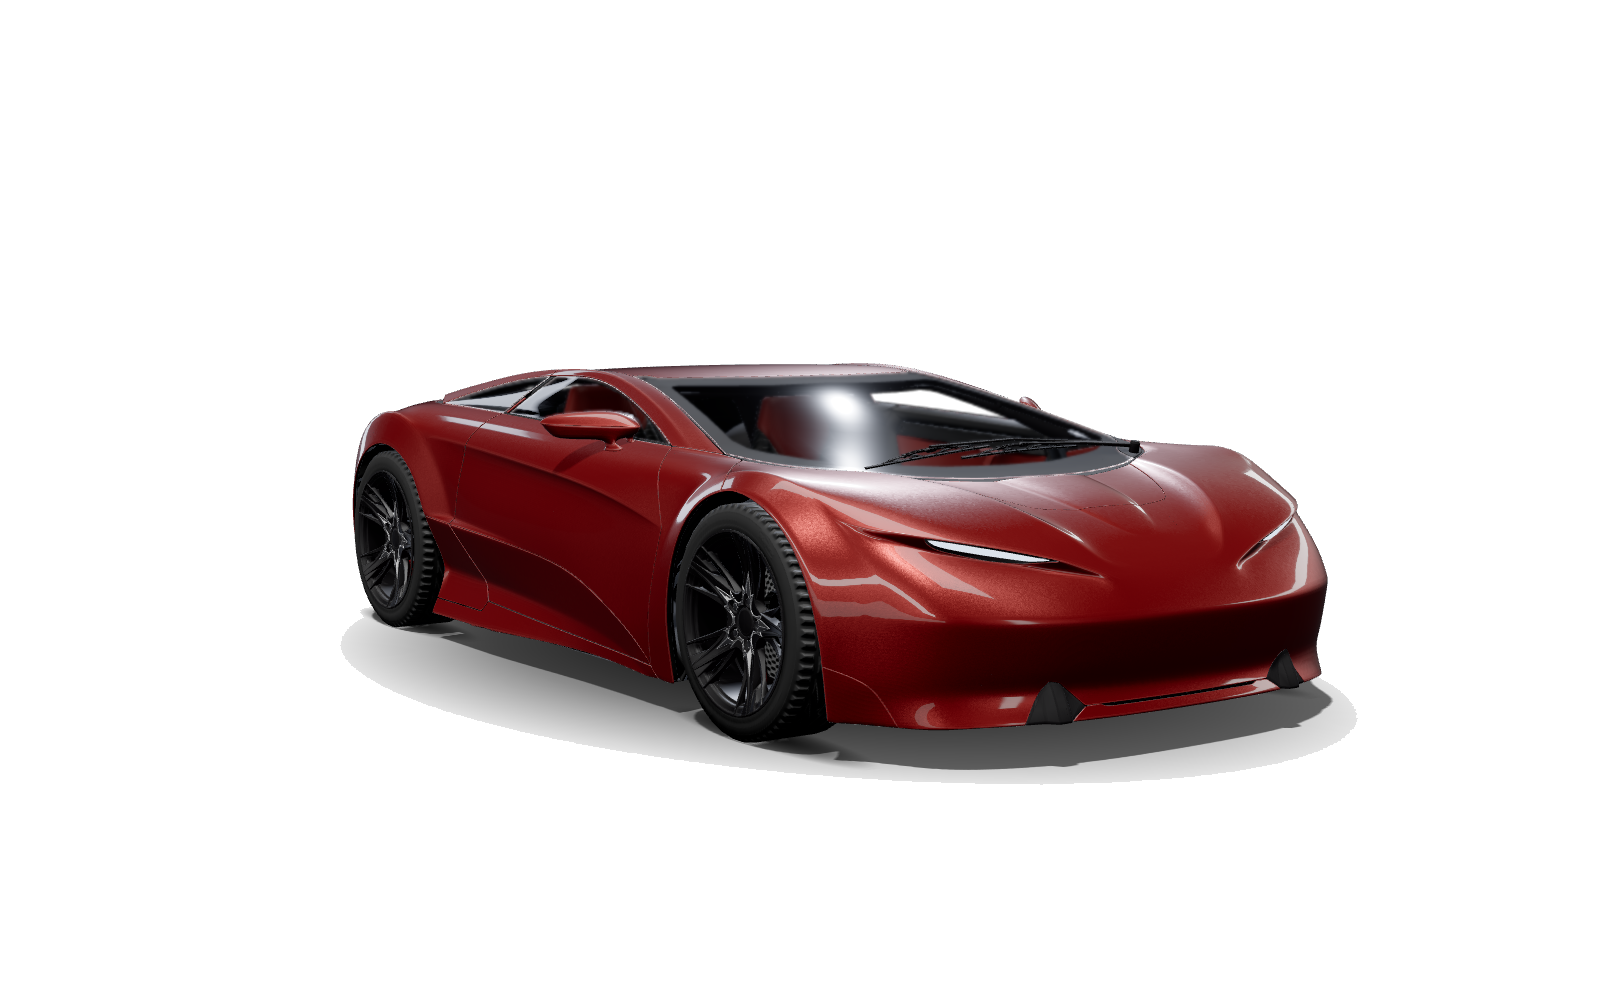
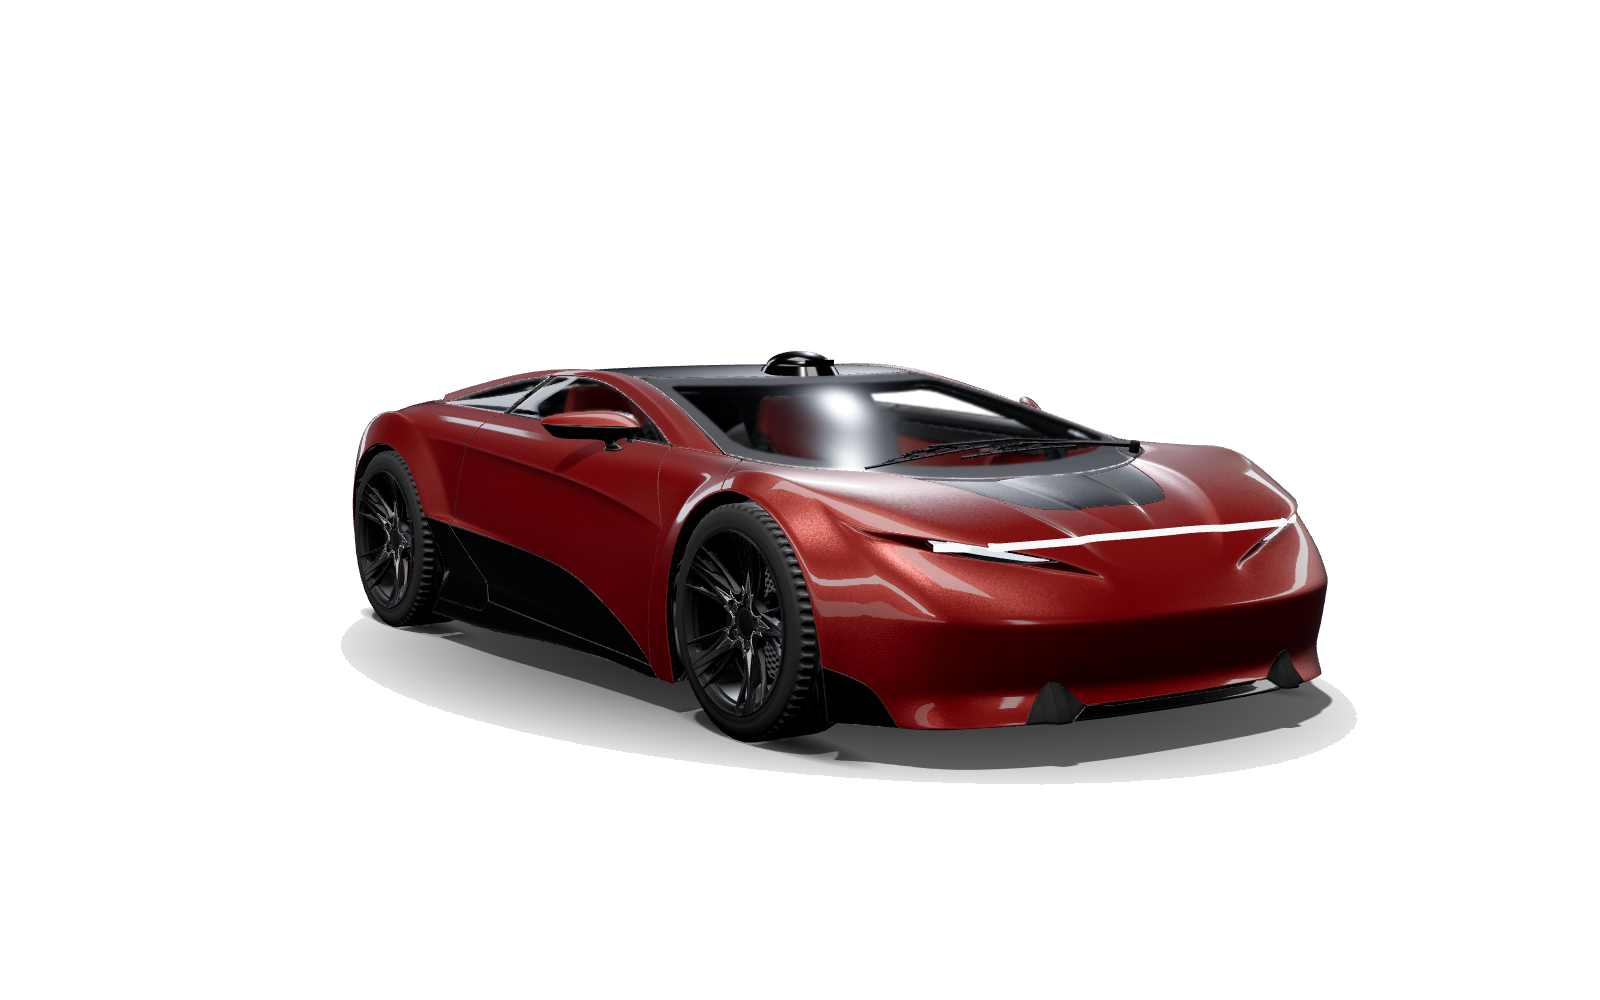
3D car: Chinese premium EV design cues by default (light bars, roof lidar, two-tone); re-rendered assets and thumbnails
Claude-Session: https://claude.ai/code/session_01HpyzoErhcDS4nAUzu1KjjS

diff --git a/test3d/realcar.js b/test3d/realcar.js
@@ -114,7 +114,7 @@ new GLTFLoader().load('./models/CarConcept.glb', g => {
     const blob = new THREE.Mesh(new THREE.PlaneGeometry(1, 1), ao.material.clone()); blob.material.opacity = 0.95;
     blob.rotation.x = -Math.PI / 2; blob.position.set(cc.x, 0.003, cc.z); blob.scale.set(Math.max(sz.x, 0.35) * 1.5, sz.z * 0.9, 1);
     scene.add(blob); window.BLOBS = (window.BLOBS || []).concat(blob); }
-  window.CAR_INFO = { wheelRot: window.WHEEL_ROT, wheelMin: window.WHEEL_MIN, boxMin: window.BOX_MIN, ...info, size: size.toArray(), nodes: Object.keys(parts) };
+  window.CAR_INFO = { cn: window.CN_DBG, wheelRot: window.WHEEL_ROT, wheelMin: window.WHEEL_MIN, boxMin: window.BOX_MIN, ...info, size: size.toArray(), nodes: Object.keys(parts) };
   window.READY = true;
 }, undefined, e => { window.LOAD_ERR = String(e); });
 
@@ -145,7 +145,46 @@ function setXray(on, hot) {
   }
   if (on) buildPack(hot); else if (pack) { scene.remove(pack); pack = null; }
 }
+// ---- "Chinese premium EV" design cues (generic, not any real model): light bars, roof lidar, two-tone ----
+let cn = null;
+function wbox(name) { const o = parts[name]; return o ? new THREE.Box3().setFromObject(o, true) : null; }
+function buildCN() {
+  cn = new THREE.Group(); car.updateMatrixWorld(true);
+  const hl = wbox('BodyHeadlights'), tl = wbox('BodyTaillights'), ws = wbox('BodyWindshield'), roof = wbox('BodyRoofPanel');
+  const barMat = c => new THREE.MeshStandardMaterial({ color: 0x111111, emissive: c, emissiveIntensity: 6, roughness: 0.3 });
+  const front = hl.getCenter(new THREE.Vector3()).x > 0 ? 1 : -1;
+  const meshes = []; car.traverse(o => { if (o.isMesh && o.visible && !/Glass/.test(o.material.name)) meshes.push(o); });
+  const rc = new THREE.Raycaster();
+  const hit = (from, dir) => { rc.set(from, dir); const h = rc.intersectObjects(meshes, false)[0]; return h ? h.point : null; };
+  // light bar: trace the body surface across the width, then a glowing tube 4 mm proud of it
+  const bar = (dirX, y, zMax, col, name) => {
+    const pts = [];
+    for (let i = 0; i <= 40; i++) { const z = -zMax + 2 * zMax * i / 40;
+      const p = hit(new THREE.Vector3(dirX * 6, y, z), new THREE.Vector3(-dirX, 0, 0)); if (p) pts.push(p.add(new THREE.Vector3(dirX * 0.006, 0, 0))); }
+    if (pts.length < 4) return;
+    const tube = new THREE.Mesh(new THREE.TubeGeometry(new THREE.CatmullRomCurve3(pts), 120, name === 'frontBar' ? 0.013 : 0.011, 8, false),
+      new THREE.MeshStandardMaterial({ color: 0xffffff, emissive: col, emissiveIntensity: 9, roughness: 0.2 }));
+    tube.name = name; cn.add(tube);
+  };
+  const hc = hl.getCenter(new THREE.Vector3()), tc = tl.getCenter(new THREE.Vector3());
+  bar(front, hc.y + 0.012, (hl.max.z - hl.min.z) / 2 * 0.98, 0xeaf4ff, 'frontBar');
+  bar(-front, tc.y, (tl.max.z - tl.min.z) / 2 * 1.0, 0xff1a1a, 'rearBar');
+  // lidar pod centred on the roof's leading edge
+  const lx = roof.max.x - 0.06 * front;
+  const ry = hit(new THREE.Vector3(lx, 5, 0), new THREE.Vector3(0, -1, 0))?.y ?? roof.max.y;
+  const podMat = new THREE.MeshPhysicalMaterial({ color: 0x07080a, metalness: 0.3, roughness: 0.12, clearcoat: 1 });
+  const g = new THREE.Group(); g.name = 'lidar';
+  const base = new THREE.Mesh(new THREE.CylinderGeometry(0.13, 0.15, 0.035, 32), podMat); base.scale.set(1.25, 1, 1);
+  const dome = new THREE.Mesh(new THREE.SphereGeometry(0.11, 32, 16, 0, Math.PI * 2, 0, Math.PI / 2), podMat); dome.scale.set(1.35, 0.55, 1.1); dome.position.y = 0.015;
+  const win = new THREE.Mesh(new THREE.BoxGeometry(0.01, 0.025, 0.13), new THREE.MeshPhysicalMaterial({ color: 0x1a1d24, metalness: 0.9, roughness: 0.05, clearcoat: 1 }));
+  win.position.set(front * 0.145, 0.03, 0);
+  g.add(base, dome, win); g.position.set(lx, ry + 0.012, 0); cn.add(g);
+  window.CN_DBG = { ry, lx };
+  scene.add(cn);
+}
 window.pose = async (o = {}) => {
+  const STY = o.style ?? 'cn'; if (STY === 'cn' && !cn) buildCN();
+  if (cn) cn.visible = STY === 'cn';
   setXray(!!o.xray, o.packColor === 'hot');
   const env = await hdr(o.env || 'studio');
   scene.environment = env; scene.environmentIntensity = o.envI ?? 1.0;
@@ -156,7 +195,7 @@ window.pose = async (o = {}) => {
   renderer.toneMappingExposure = o.exp ?? 1.0;
   const col = new THREE.Color(PAINTS[o.paint] ?? o.paint ?? PAINTS.red);
   for (const m of paintMats) { if (m.name.includes('Paint 1') || m.name.includes('Paint 2')) {
-    m.color.copy(col); if (m.map) m.map = m.map; m.metalness = o.metal ?? 0.65; m.roughness = o.rough ?? 0.32;
+    m.color.copy(STY === 'cn' && m.name.includes('Paint 2') ? new THREE.Color(o.roof ?? 0x08090b) : col); if (m.map) m.map = m.map; m.metalness = o.metal ?? 0.65; m.roughness = o.rough ?? 0.32;
     if ('clearcoat' in m) { m.clearcoat = 1; m.clearcoatRoughness = 0.03; }
     if ('iridescence' in m) m.iridescence = 0; m.needsUpdate = true; } }
   for (const [n, m] of Object.entries(lightMats)) {

diff --git a/CHANNEL_BRIEF.md b/CHANNEL_BRIEF.md
@@ -44,6 +44,7 @@ Every Short ends with a short thought-provoking question or takeaway before the 
 - Animated shots: render a sequence of poses (one per frame) with the same script and assemble with ffmpeg.
 - **Credit is required (CC BY 4.0):** every video or thumbnail that shows this car must have this line in the description, just before the hashtags: `3D car model: "Car Concept" by Eric Chadwick / Darmstadt Graphics Group (CC BY 4.0)`.
 - Never show logos: the renderer already hides the licence plate and blanks the tyre-sidewall text.
+- **Default look = modern Chinese premium EV design language** (owner's request, 2026-11-08): full-width front light bar, red full-width rear light bar, roof lidar pod, two-tone black roof/lower body. It is on unless a pose sets `"style":"plain"`; `"roof"` sets the second tone. Never imitate a specific real model (no Li Auto/Zeekr/Avatr/BYD replicas); when a video is about a real brand, name it in words and on-screen text, but show our own generic car.
 
 ## Titles (owner's style — curiosity first, always honest)
 The owner wants titles that make people click, in the style of these pairs (educational → clickable):
